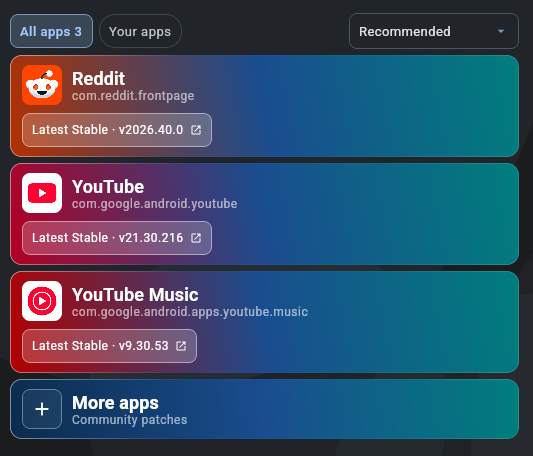
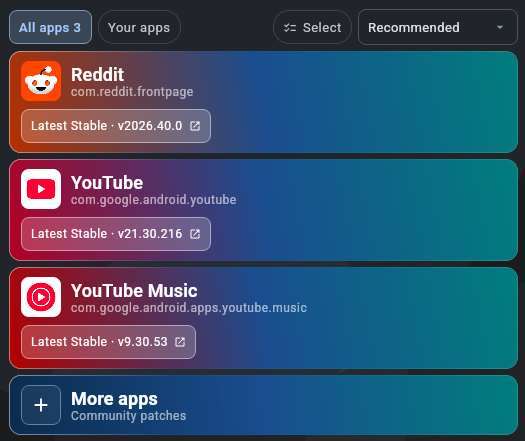
chore: Update documentation

Changed region(s): [[0.0, 0.0, 1.0, 1.0]]

diff --git a/docs/documentation.md b/docs/documentation.md
@@ -18,6 +18,7 @@ Now that you've done your first run, let's dig deeper into how the magic happens
   - [Custom app icons (Icon Studio)](#gui-icon-studio)
   - [Link handling ("open with")](#gui-expert-links)
   - [Your apps](#gui-your-apps)
+  - [Batch patching](#gui-batch)
   - [Settings](#gui-settings)
     - [Storage & cache](#gui-settings-storage)
     - [Signing](#gui-settings-signing)
@@ -139,14 +140,14 @@ The **Navigation Pill** sits in the center of the bar on Home with an animated s
 
 | Control                                          | What it does                                                                           | CLI equivalent                                                             |
 |--------------------------------------------------|----------------------------------------------------------------------------------------|----------------------------------------------------------------------------|
-| Drag & drop / **Browse files**                   | Choose the APK to patch (`.apk`, `.apkm`, `.xapk`, `.apks`)                            | positional `<apk>` argument                                                |
+| Drag & drop / **Browse files**                   | Choose one APK to patch, or drop/select 2+ files (`.apk`, `.apkm`, `.xapk`, `.apks`) to open [Batch patching](#gui-batch) | positional `<apk>` argument                                                |
 | **Supported apps** list                          | The apps your patches target, each tagged with compatibility status                    | informational – compare with [`list-versions`](#subcommand-3-list-versions) |
 | **Patch source selector**                        | Choose which enabled source to patch with (in Simple mode when multiple sources exist) | `-p <source>`                                                              |
 | **Change APK**                                   | Swap the selected file                                                                 | –                                                                          |
 | **Patch** (Simple mode)                          | Immediately patch using default patches and selected source                            | runs the `patch` command with defaults                                     |
 | **Continue** / **Continue anyway** (Expert mode) | Proceed to patch source & patch selection                                              | `--force` (when it reads *Continue anyway*)                                |
 
-Drop an APK anywhere on the window (the zone reads **Drop APK here** → **Release to drop**) or use **Browse files**. Split-APK bundles (`.apkm` / `.xapk` / `.apks`) are merged into a single APK automatically.
+Drop an APK anywhere on the window (the zone reads **Drop APK(s) here** → **Release to drop**) or click it to browse. Picking one file stages it for single-app patching; dropping or selecting 2+ files opens [Batch patching](#gui-batch) directly with all of them queued. Split-APK bundles (`.apkm` / `.xapk` / `.apks`) are merged into a single APK automatically.
 
 The **Supported apps** list shows what your enabled patch sources can target, each tagged with its compatibility status:
 - **Recommended** (primary color): The exact version tested and targeted by the patch bundle.
@@ -380,7 +381,7 @@ The **Link handling** section appears on the Result screen once the patched app 
 
 <h3 id="gui-your-apps">Your apps</h3>
 
-The home screen has two tabs: **Supported apps** (what your patches can target) and **Your apps**, a history of everything you've patched with Morphe. The "Your apps" tab carries a count badge, and when newer patches are available a banner ("N patched apps have updates available") jumps you there.
+The home screen has two tabs: **All apps** (what your patches can target) and **Your apps**, a history of everything you've patched with Morphe. The "Your apps" tab carries a count badge, and when newer patches are available a banner (*"N patched apps have updates available"*) lets you click **View** to inspect them or **Patch all** to update every outdated app in one [Batch patching](#gui-batch) run. You can also toggle **Select** next to the filter chips to multi-select apps across both tabs.
 
 <p align="center">
   <img src="images/documentation/gui/your-apps.png" width="60%" alt="Your Apps section" style="vertical-align: middle"/>
@@ -410,6 +411,52 @@ The detail view provides a comprehensive breakdown of the patched app:
   <img src="images/documentation/gui/your-apps-details-dialog.png" width="60%" alt="Your Apps details dialog" style="vertical-align: middle"/>
 </p>
 
+<h3 id="gui-batch">Batch patching</h3>
+
+Patch multiple apps in a single queued run instead of configuring them one by one. Batch patching works in both **Simple mode** and **Expert mode** and processes every queued app sequentially from a single preflight screen.
+
+#### Starting a batch
+
+You can start (or append to) a batch from **Home → Apps** in three ways:
+
+- **Multi-select (*Select*):** Click **Select** next to the **All apps** / **Your apps** filter chips to switch rows into checkboxes. Check apps across either or both tabs, use **Select all** / **Deselect all**, and click **Patch selected (N)** (or **Add to queue (N)** when a saved queue already exists).
+- **Update banner (*Patch all*):** When previously patched apps have patch updates available, click **Patch all** on the update banner to queue all outdated apps at once.
+- **Multi-APK drop or file picker:** Drag and drop 2 or more `.apk`, `.apkm`, `.xapk`, or `.apks` files onto **Drop APK(s) here**, or click to select multiple files at once.
+
+<p align="center">
+  <img src="images/documentation/gui/batch-home-select.png" width="55%" alt="Home multi-select for batch patching" style="vertical-align: middle"/>
+</p>
+
+#### Preflight review
+
+Once opened, Morphe inspects dropped APKs and automatically resolves local files for each queued package from files you attached, kept copies in `morphe-data/original-apks/`, and your patched-app history. Each app appears as a card showing its version, source APK, patch count, bundle names, and status badge (**Ready**, **APK needed**, **Unsupported version**, **Root mount**, etc.):
+
+| Control | What it does |
+|---|---|
+| **+ Add APKs** / drag & drop | Add more `.apk` / `.apkm` / `.xapk` / `.apks` files to the queue (dropping onto the window automatically attaches or appends) |
+| **Attach APK** / **Change APK** | Pick a local APK or split bundle for an app (or replace its current file) |
+| **Download APK** | Opens the app's download link when an APK is needed, outdated, or mismatched |
+| **Force version** | Override a version mismatch and queue an **Unsupported version** APK anyway (marked **Forced**) |
+| **Source** *(Simple mode)* | Switch patch source when multiple enabled sources support the app |
+| **Edit patches** | Opens the full [Patch selection](#gui-expert-selection) screen in batch-edit mode (`Save selection (N)` syncs choices back to the queue) |
+| **# Mount** *(Expert mode)* | Toggle root mount mode for that app |
+| **Exclude** / **Include** | Temporarily skip an app without removing it from the queue |
+| **Install / Mount when finished** | Shown when ADB is enabled and a device is connected; automatically installs/mounts patched apps after the batch finishes |
+| **Start batch (N)** / **Clear** / **Close** | Run all ready apps, clear the queue, or leave preflight (**Keep queue** saves the queue across restarts; **Clear queue** discards it) |
+
+<p align="center">
+  <img src="images/documentation/gui/batch-preflight.png" width="70%" alt="Batch patching preflight screen" style="vertical-align: middle"/>
+</p>
+
+#### Running, status banner &amp; finished
+
+- **Sequential execution:** Clicking **Start batch (N)** patches each ready app in order. In **Simple mode** it shows the circular progress view; in **Expert mode** it shows live logs and performance graphs. Use **Stop** in the header to cancel the active item and skip remaining queued apps while keeping already-patched outputs.
+- **Live Home status banner:** Returning to **Home** while a queue is planning, running, finished, or kept shows a live **Batch queue** banner at the top (**View** / **Open queue**). Competing single-app patch runs are blocked while a batch is active.
+- **Finished actions:** When the batch ends, each succeeded card provides **Install** (or **Mount**) / **Retry** and **Open folder**, while failed items offer **View error**. You can also click **Install all (N)** or **Retry unfinished** from the bottom bar.
+
+> [!NOTE]
+> When installing over ADB (whether individually, via **Install all**, or automatically), Morphe never auto-uninstalls an existing app on a signature mismatch; conflicts are reported per app so your existing app data stays safe.
+
 <h3 id="gui-settings">Settings</h3>
 
 Open Settings from the **Settings** tab in the Home navigation pill, or via the top-right **Settings** button on any workflow sub-screen. Think of it as the GUI's equivalent of the CLI flag set: most settings map directly to a `patch` flag. Settings is laid out as an integrated two-pane page with a live **Search settings** bar and three categories in the left sidebar: **Appearance**, **Advanced**, and **System**.
@@ -438,6 +485,7 @@ Open Settings from the **Settings** tab in the Home navigation pill, or via the 
 | **Output folder**              | Default location for patched APKs                                                                         | The input APK's folder                                                               | `-o` / `--out`                                                                             |
 | **Keep original APKs**         | Copy, Move, or Off: keep each app's original APK in `morphe-data/original-apks/`                         | Copy                                                                                 | `--save-original` (`OFF` unless set here)                                                |
 | **Auto-start ADB**             | Start the ADB daemon on launch so devices are monitored                                                   | Off                                                                                  | enables `-i` / install features                                                            |
+| **Auto-install after patching** | Automatically install or mount patched apps on the selected ADB device once patching finishes             | Off                                                                                  | `-i` / `--install`, `--mount`                                                              |
 | **Storage & cache**            | Inspect and clear caches, or open data root / logs directory                                              | –                                                                                    | [`utility clear-cache`](#utility-clear-cache)                                              |
 
 <p align="center">
@@ -451,7 +499,7 @@ A couple of items worth expanding on:
 - **About, Changelogs & Licenses** - **Settings → System → About** displays the application version, **View changelogs**, **Open Source licenses**, **Documentation**, and **Visit website**. The Changelog pane (also opened directly from update banners) features structured release notes parsed into categorized sections (*App support*, *Fixes*, *Improvements*, *New*, *Performance*, *Changes*) with change counters, clickable links, inline code chips, and release status badges (*Installed*, *Latest*, *Pre-release*).
 - **Storage & cache** - Found under **Settings → System**, this section displays live disk usage and file counts broken down by category (**Patches**, **Logs**, **Temporary files**, **Avatar cache**, and **App icon cache**). Each category can be cleared individually or all at once via **Clear all cache**, plus direct buttons to open Morphe's application data folder (`morphe-data/`) and logs folder (`morphe-data/logs/`) in your desktop file manager.
 - **Keep original APKs** - after a successful patch, Morphe keeps a copy of the APK you patched in `morphe-data/original-apks/`, named `<package>-<version>.<ext>`, and the app's repatch dialog uses that copy from then on, so you can tidy up your Downloads folder without losing it. The dropdown chooses **Copy** (the default), **Move**, which also removes the APK from where you picked it, or **Off**. When you **Forget** or **Uninstall** an app that has a kept APK, the dialog offers to delete that APK as well. When no **Output folder** is set, repatching from a kept APK saves the patched APK where the app's previous one was saved.
-- **Auto-start ADB** - when off, Morphe never starts the ADB server and all install/push features are disabled. Turn it on to install patched APKs to your phone from Morphe.
+- **Auto-start ADB** & **Auto-install after patching** *(Settings → System → ADB & Installation)* - when **Auto-start ADB** is off, Morphe never starts the ADB server and all install/push features are disabled. Turn it on to install patched APKs to your phone from Morphe. Enabling **Auto-install after patching** automatically installs (or root-mounts) finished APKs onto the selected connected device on the Result screen and turns on **Install / Mount when finished** by default in batch patching (respecting **Route links to patched app**, without ever auto-uninstalling on signature conflicts).
 - **Check for updates** - *Prerelease* surfaces pre-releases; *Stable* only stable ones; *Off* disables update checks. If you've never chosen, Morphe defaults smartly (Prerelease when you're running a dev build).
 - **Route links to patched app** - when on, every ADB install is followed by routing the app's supported web links to the patched app (the [Link handling](#gui-expert-links) step, run automatically). A nested **Disable stock app's links** option also stops the original app from opening those links – only relevant when a rename patch was used and the stock app is still installed. Both are reversible and need a connected device.
 
@@ -548,7 +596,7 @@ Morphe can push patched APKs straight to your phone over ADB:
 1. Enable **Auto-start ADB** in Settings (off by default).
 2. Connect your phone via USB with **USB debugging** enabled, and accept the authorization prompt on the device.
 3. The **device indicator** in the top bar shows it; click to pick a device if several are connected.
-4. After patching, use **ADB install** on the Result screen.
+4. After patching, use **ADB install** on the Result screen (or **Install** / **Install all** on the [Batch patching](#gui-batch) finished screen), or enable **Auto-install after patching** under **Settings → System → ADB & Installation** to install automatically once patching finishes.
 
 <p align="center">
   <img src="images/documentation/gui/device-indicator.png" width="60%" alt="Device Indicator" style="vertical-align: middle"/>

diff --git a/README.md b/README.md
@@ -81,7 +81,7 @@ The GUI is far more user-friendly and straightforward than the CLI. On your firs
 
 ![Morphe GUI Result](docs/images/main_readme/success.png)
 
-Bravo! That's your first successful patch! When you're ready for granular control (selecting individual patches and editing patch options), switch on **Expert mode** in Settings. You can also manage patch sources anytime using the **Sources** tab in the top navigation bar. See the [documentation](docs/documentation.md).
+Bravo! That's your first successful patch! When you're ready for granular control (selecting individual patches and editing patch options), switch on **Expert mode** in Settings. You can also manage patch sources anytime using the **Sources** tab in the top navigation bar, or queue multiple apps at once with [Batch patching](docs/documentation.md#gui-batch) (using **Select** or dropping multiple APKs). See the [documentation](docs/documentation.md).
 
 
 #### CLI
